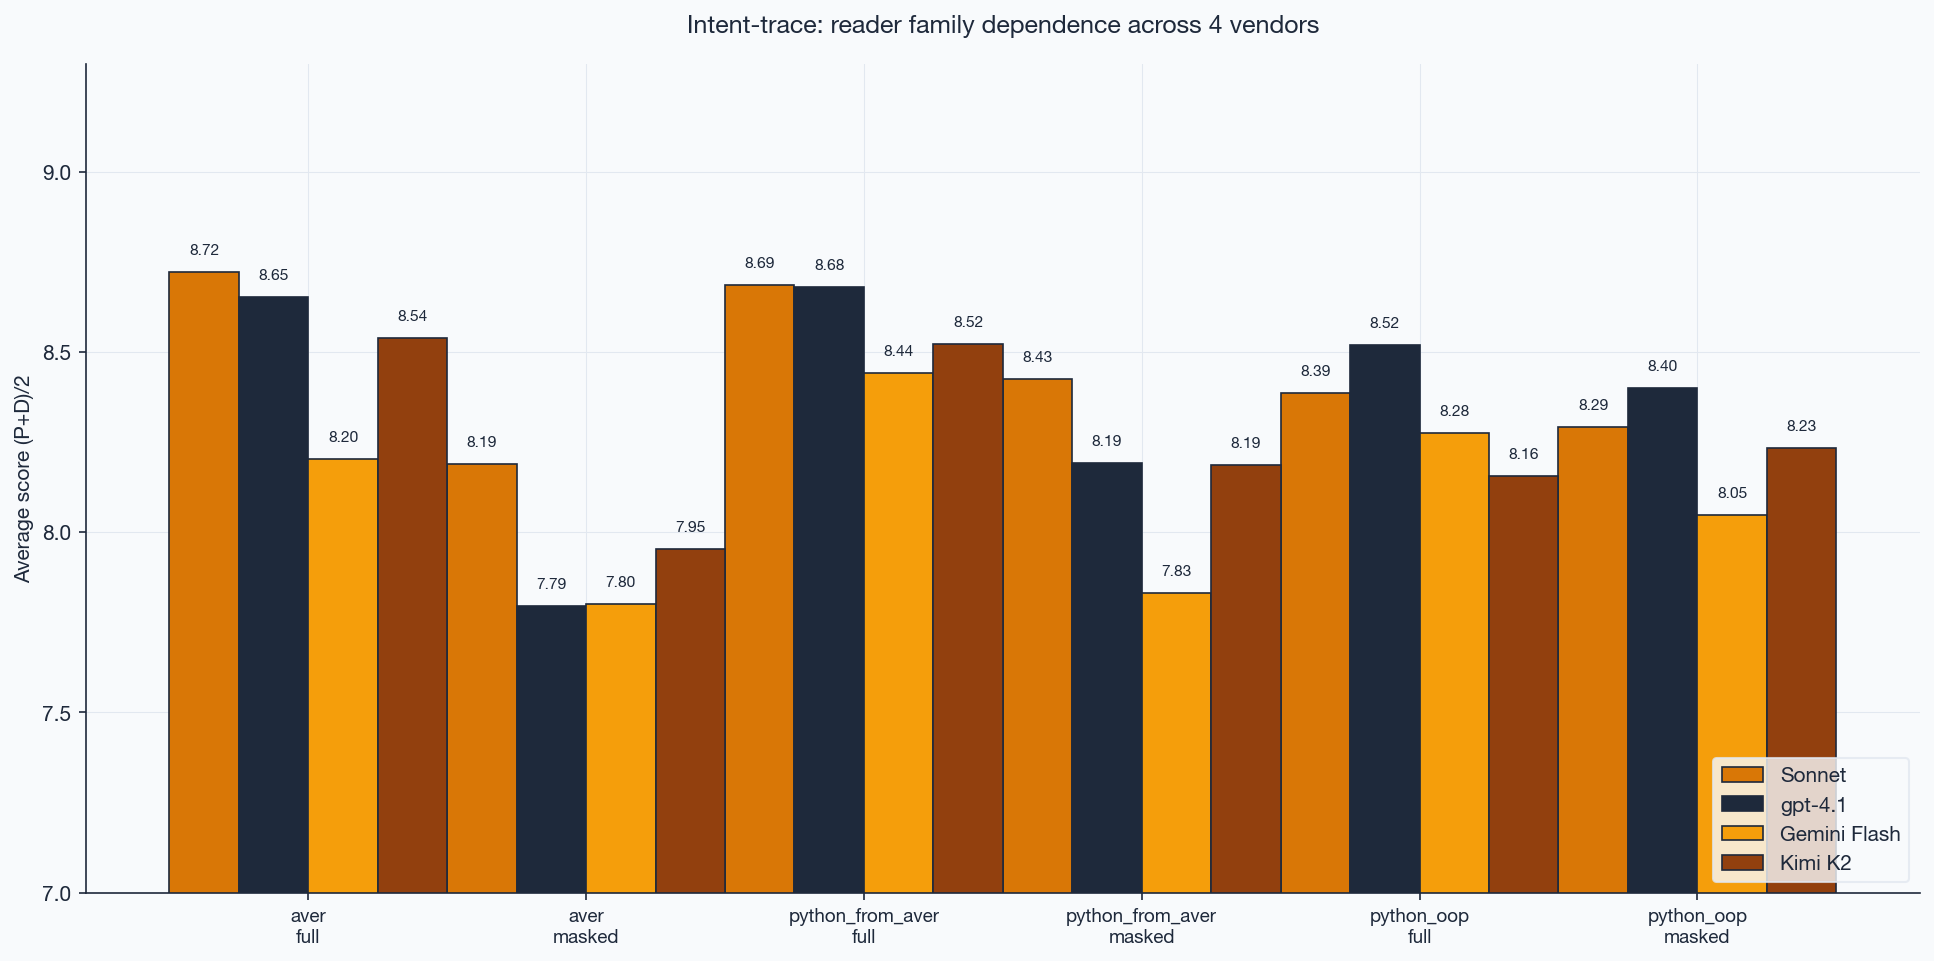
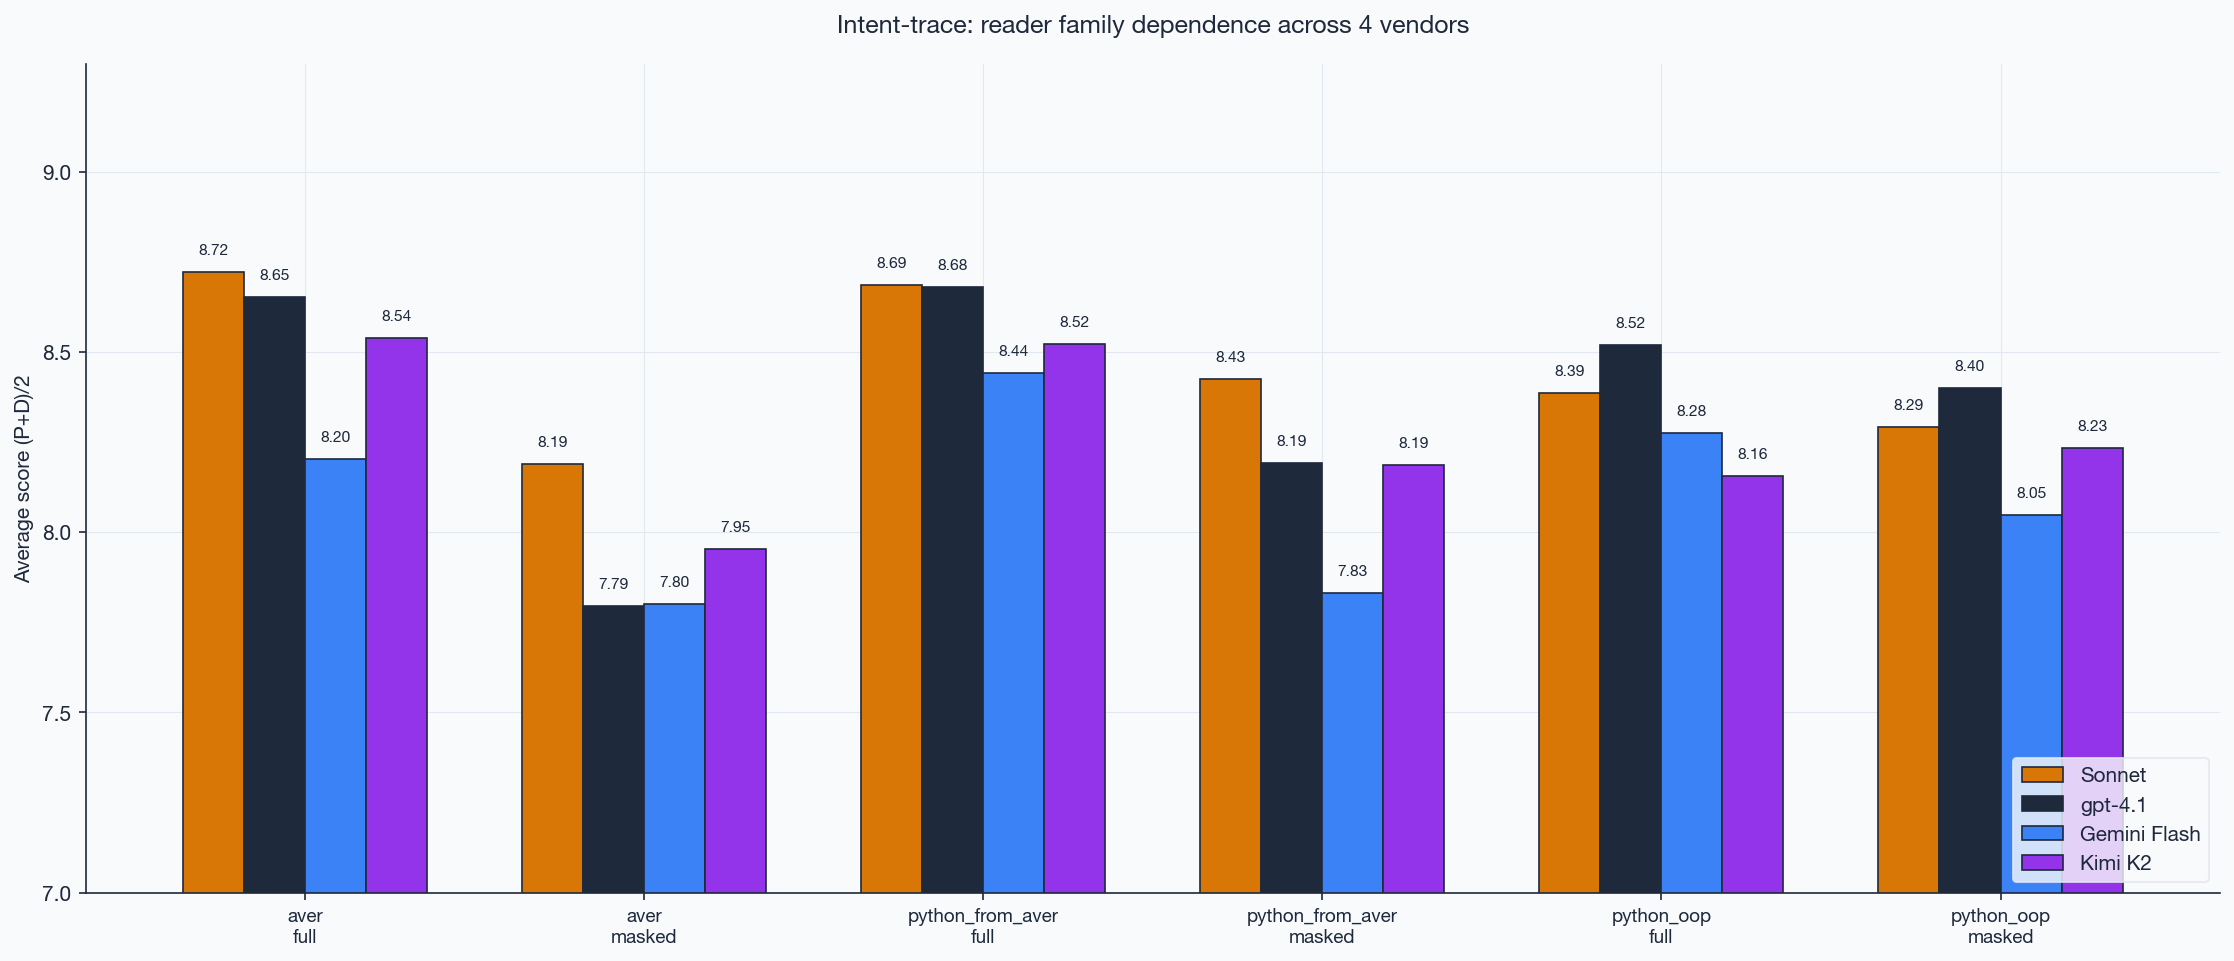
Plot: distinct colors per reader + group spacing in 4-way comparison
Sonnet=amber, gpt-4.1=slate, Gemini=blue, Kimi=purple. Bar width down
from 0.25 to 0.18, figsize widened — groups now visually separated.

diff --git a/scripts/plot_results.py b/scripts/plot_results.py
@@ -219,10 +219,10 @@ READER_PATHS = {
     "Kimi K2": "results/merged/kimi.jsonl",
 }
 READER_COLORS = {
-    "Sonnet": AMBER,
-    "gpt-4.1": SLATE,
-    "Gemini Flash": AMBER_LIGHT,
-    "Kimi K2": AMBER_DARK,
+    "Sonnet": AMBER,         # Anthropic — brand amber
+    "gpt-4.1": SLATE,        # OpenAI — slate
+    "Gemini Flash": "#3b82f6",  # Google — blue
+    "Kimi K2": "#9333ea",    # Moonshot — purple
 }
 
 
@@ -240,8 +240,8 @@ def plot_3way_readers(out_path: Path) -> None:
     labels = [f"{lang}\n{view}" for lang, view in cells]
 
     n_readers = len(readers_data)
-    bar_w = 0.25
-    fig, ax = plt.subplots(figsize=(13, 6.5))
+    bar_w = 0.18
+    fig, ax = plt.subplots(figsize=(15, 6.5))
     positions = range(len(cells))
     for i, (reader, d) in enumerate(readers_data.items()):
         values = [d[k]["avg"] if k in d else 0 for k in cells]
